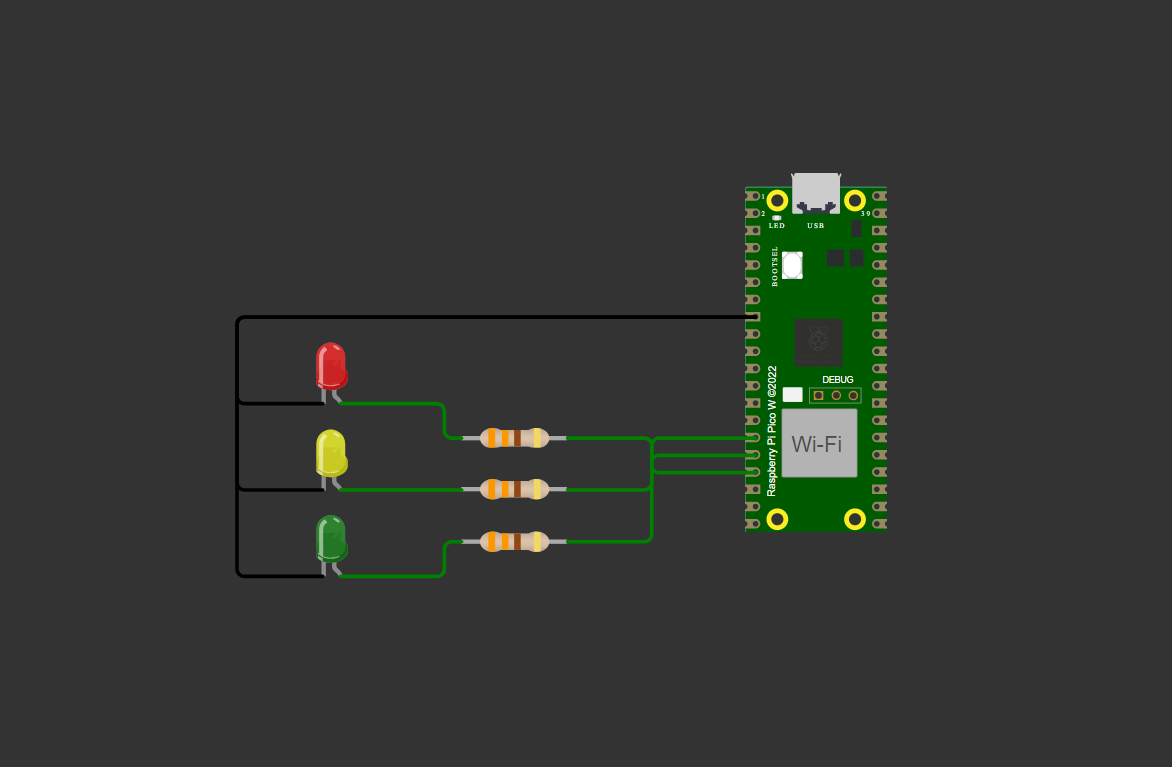
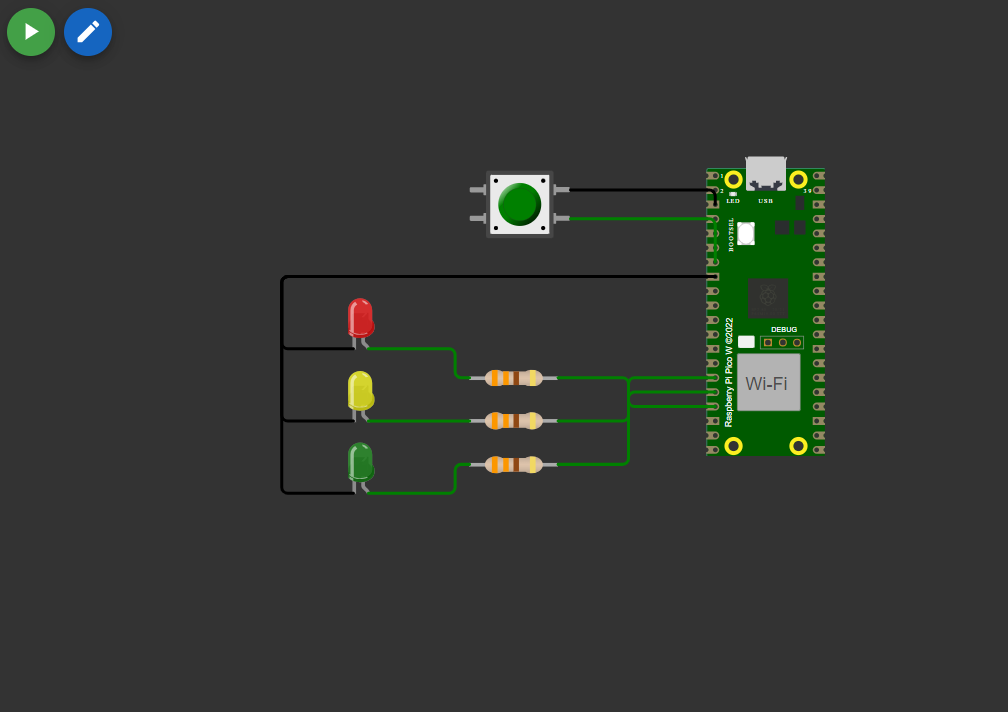
Final commit atividade 2

Changed region(s): [[0.1845, 0.2163, 0.8304, 0.7725], [0.0, 0.0, 0.123, 0.0927], [0.4306, 0.4944, 0.4613, 0.5253]]

diff --git a/Tarefa-29-01.c b/Tarefa-29-01.c
@@ -1,3 +1,6 @@
+// Acho que o código não está otimizadp, está rodando devagar no wokwi.
+// Mas funciona normalmente na placa BitDogLab.
+
 #include <stdio.h>
 #include "pico/stdlib.h"
 #include "hardware/timer.h"
@@ -5,24 +8,51 @@
 #define RED_PIN 13
 #define GREEN_PIN 11
 #define BLUE_PIN 12
+#define BUTTON 5
 
 int i = 0;
+int lasttime = 0;
 const uint32_t led_pins[] = {RED_PIN, BLUE_PIN, GREEN_PIN};
 
 void setup(){
     gpio_init(RED_PIN);
     gpio_set_dir(RED_PIN, GPIO_OUT);
+
     gpio_init(GREEN_PIN);
     gpio_set_dir(GREEN_PIN, GPIO_OUT);
+
     gpio_init(BLUE_PIN);
     gpio_set_dir(BLUE_PIN, GPIO_OUT);
+
+    gpio_init(BUTTON);
+    gpio_set_dir(BUTTON, GPIO_IN);
+    gpio_pull_up(BUTTON);
 }
 
-bool repeating_timer_callback(struct repeating_timer *timer) {
-    gpio_put(led_pins[i], 0);
-    i = (i + 1) % 3;
-    gpio_put(led_pins[i], 1);
-    return true;
+int64_t turn_off_callback(alarm_id_t id, void *user_data){
+    gpio_put(led_pins[i%3], 0); 
+    i++;
+
+    return 0;   // retorna 0 para não repetir o alarme
+}
+
+bool all_leds_off(){
+    return gpio_get(RED_PIN) == 0 && gpio_get(GREEN_PIN) == 0 && gpio_get(BLUE_PIN) == 0;
+}
+
+void turn_leds_on(){
+    for(int j = 0; j < 3; j++){
+        gpio_put(led_pins[j], 1);
+    }
+}
+
+bool debounce(){
+    int time = to_ms_since_boot(get_absolute_time());
+    if(time - lasttime > 200){
+        lasttime = time;
+        return true;
+    }
+    return false;
 }
 
 int main()
@@ -30,13 +60,15 @@ int main()
     stdio_init_all();
     setup();
 
-    gpio_put(led_pins[i], 1);
-
-    struct repeating_timer timer;
-    add_repeating_timer_ms(3000, repeating_timer_callback, NULL, &timer);
-
     while (true) {
-        sleep_ms(1000);
-        printf("Implemetação da tarefa 1 (29/01)\n");
+        if(gpio_get(BUTTON) == 0 && all_leds_off() && debounce()){
+            sleep_ms(50);
+            turn_leds_on();
+
+            add_alarm_in_ms(3000, turn_off_callback, NULL, false);
+            add_alarm_in_ms(6000, turn_off_callback, NULL, false);
+            add_alarm_in_ms(9000, turn_off_callback, NULL, false);
+        }
     }
+    
 }
